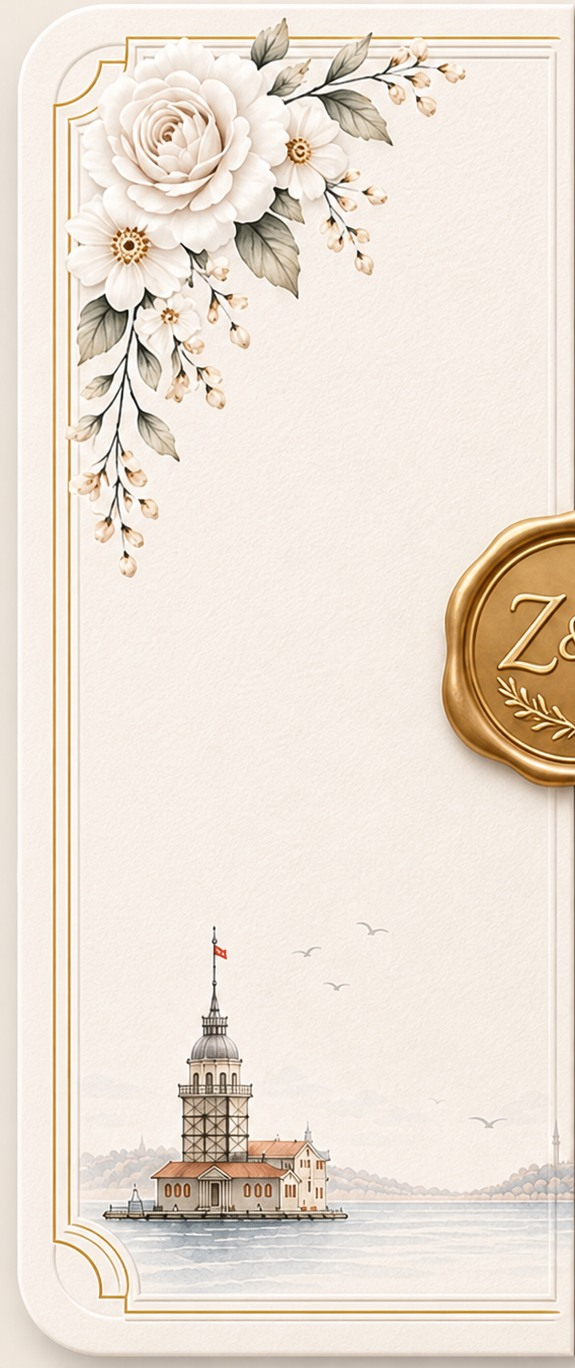
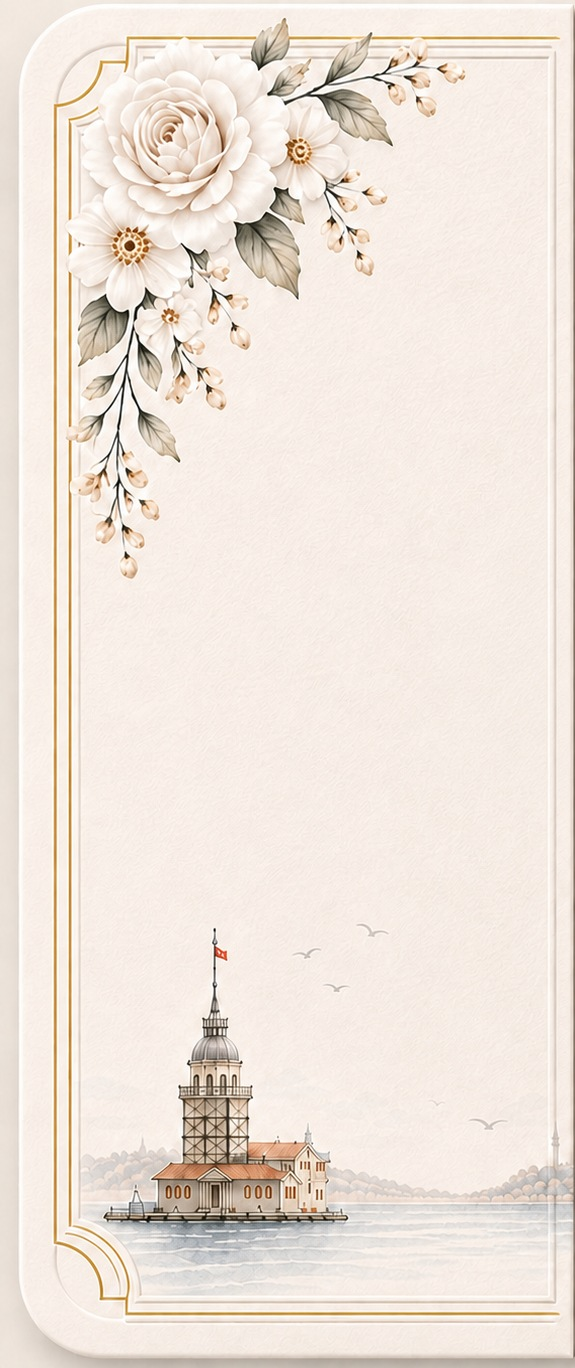
Mühür ve ilk ziyaret animasyonlarını düzenle

diff --git a/script.js b/script.js
@@ -67,7 +67,10 @@ seal.addEventListener("click", () => {
     music.play().then(updateMusicButton).catch(updateMusicButton);
   }
   opening.classList.add("opened");
-  window.setTimeout(() => body.classList.add("invitation-open"), 1350);
+  window.setTimeout(() => {
+    body.classList.add("invitation-open");
+    showFirstVisitHint(document.querySelector(".hero"));
+  }, 1350);
   window.setTimeout(() => {
     opening.classList.add("finished");
     body.classList.remove("locked");
@@ -145,8 +148,54 @@ updateCountdowns();
 window.setInterval(updateCountdowns, 1000);
 
 const pages = [...document.querySelectorAll(".page")];
+const hintedPages = new WeakSet();
+const pendingPageHints = new WeakMap();
+
+function pageIsCentered(page){
+  const rect = page.getBoundingClientRect();
+  const viewportHeight = scroller.clientHeight;
+  const visibleHeight = Math.min(rect.bottom, viewportHeight) - Math.max(rect.top, 0);
+  return visibleHeight >= Math.min(rect.height, viewportHeight) * .7;
+}
+
+function showFirstVisitHint(page){
+  if(hintedPages.has(page) || pendingPageHints.has(page) || !body.classList.contains("invitation-open")) return;
+
+  const timer = window.setTimeout(() => {
+    pendingPageHints.delete(page);
+    if(hintedPages.has(page) || !pageIsCentered(page)) return;
+
+    const content = page.querySelector(".invitation-content");
+    if(!content) return;
+
+    hintedPages.add(page);
+    content.classList.add("first-visit-nudge");
+    content.addEventListener("animationend", () => {
+      content.classList.remove("first-visit-nudge");
+    }, {once:true});
+  }, 1100);
+
+  pendingPageHints.set(page, timer);
+}
+
+const pageHintObserver = new IntersectionObserver(entries => {
+  entries.forEach(entry => {
+    if(entry.intersectionRatio >= .7){
+      showFirstVisitHint(entry.target);
+      return;
+    }
+
+    const timer = pendingPageHints.get(entry.target);
+    if(timer){
+      window.clearTimeout(timer);
+      pendingPageHints.delete(entry.target);
+    }
+  });
+}, {root:scroller, threshold:[0, .7]});
 
 pages.forEach((page, index) => {
+  pageHintObserver.observe(page);
+
   const cue = document.createElement("div");
   const isLastPage = index === pages.length - 1;
   cue.className = `page-cue${isLastPage ? " page-cue-up" : ""}`;

diff --git a/style.css b/style.css
@@ -132,16 +132,14 @@ main{
 .seal-pulse{
   position:absolute;
   left:50%;
-  top:44%;
+  top:47.2%;
   z-index:2;
-  width:28%;
-  aspect-ratio:1;
-  border-radius:50%;
-  clip-path:circle(48%);
-  background-image:url("assets/cover-v2.jpg");
-  background-position:50% 44%;
+  width:27%;
+  aspect-ratio:310/342;
+  background-image:url("assets/seal-v2.png");
+  background-position:center;
   background-repeat:no-repeat;
-  background-size:357.15% auto;
+  background-size:contain;
   filter:drop-shadow(0 8px 8px rgba(87,52,16,.28));
   pointer-events:none;
   transform:translate(-50%,-50%);
@@ -615,6 +613,16 @@ main::before{
 .invitation-open .reveal.visible .invitation-content{
   opacity:1;
   transform:scale(var(--content-scale));
+}
+
+.invitation-content.first-visit-nudge{
+  animation:firstVisitNudge 1.45s cubic-bezier(.35,.05,.2,1);
+}
+
+@keyframes firstVisitNudge{
+  0%,100%{translate:0 0}
+  42%{translate:0 -20px}
+  68%{translate:0 -20px}
 }
 .invitation-lead{
   margin:0 0 clamp(24px,6vh,54px);
